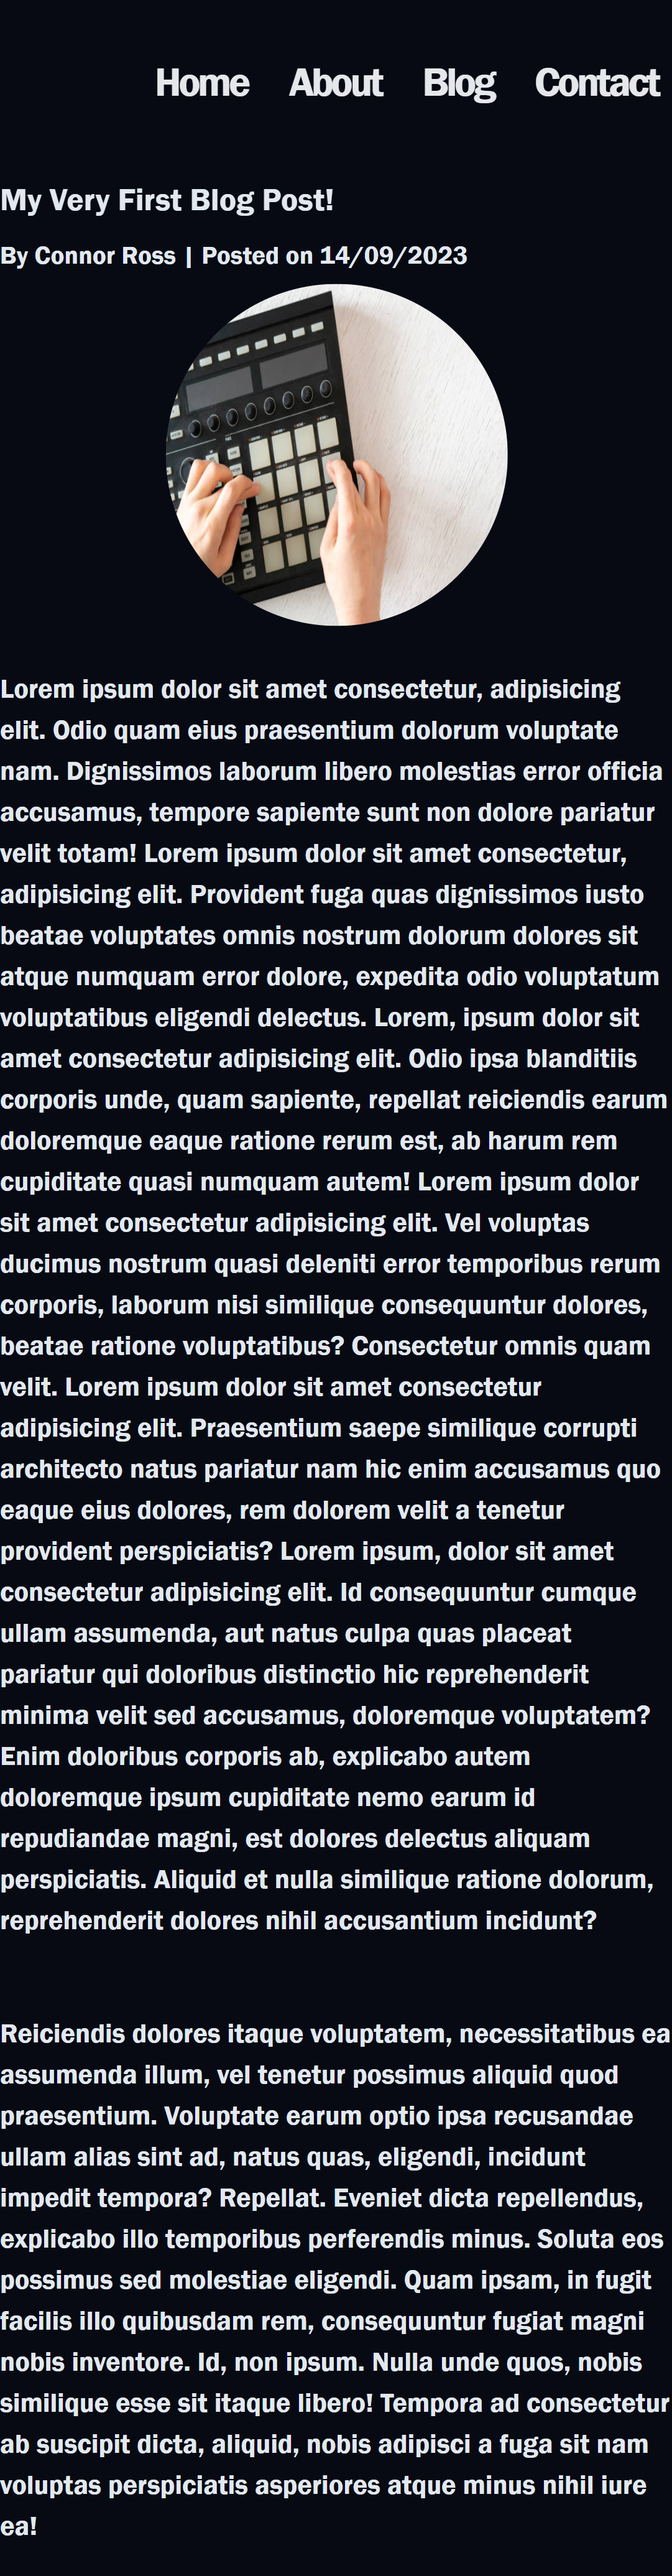
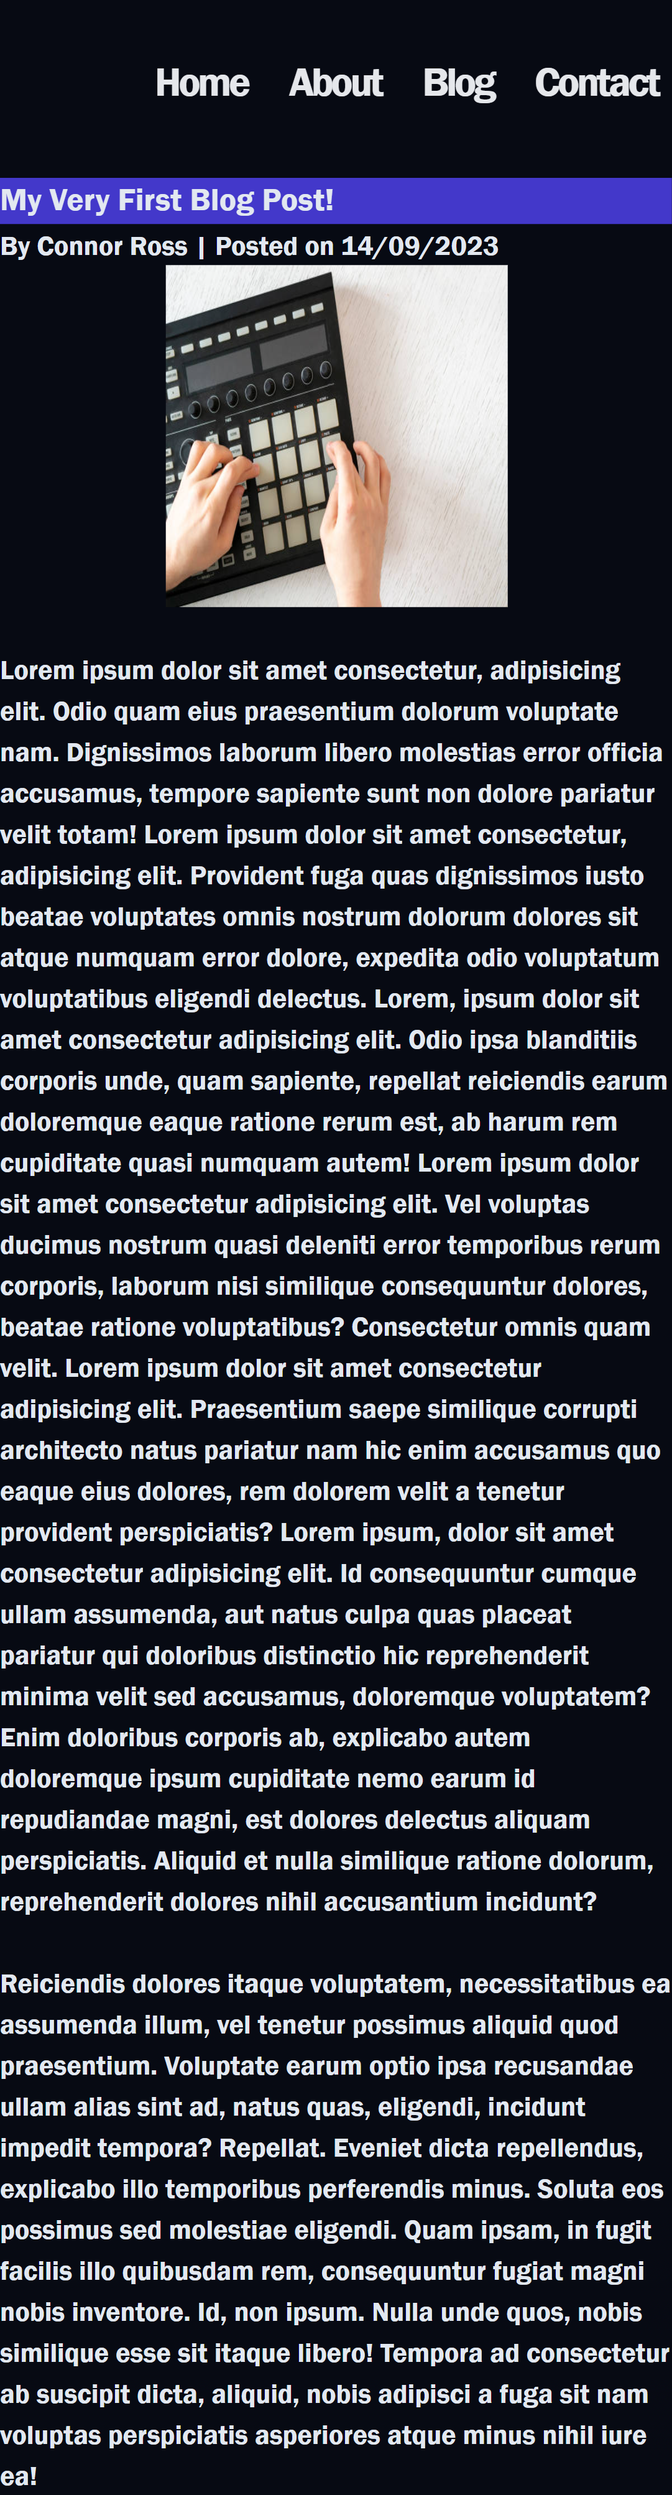
changes to blog layout for final change

diff --git a/src/blog.html b/src/blog.html
@@ -27,31 +27,47 @@
             </ul>
     </header>
     <br>
-    <article> <h3 class="blog"> My Very First Blog!</h3> <br>
-        <h4> By Connor Ross | Posted on 14/09/2023 </h4> <img class="blog_img" src="./images/Blog 1.jpg" alt=""> <br>
-        Lorem ipsum dolor sit amet consectetur... <a href="blog1.html">Click Here to Read More!</a>
-    </article>
-    <br>
-    <article> <h3 class="blog"> Whats Happening?</h3> <br>
-        <h4> By Connor Ross | Posted on 18/09/2023 </h4> <img class="blog_img" src="./images/Blog 2.jpg" alt="">
-        <br>
-        Lorem ipsum dolor sit amet consectetur... <a href="blog2.html">Click Here to Read More!</a>
-    </article>
-    <br>
-    <article><h3 class="blog"> Wow! I am Learning so Much!</h3><br>
-        <h4> By Connor Ross | Posted on 23/09/2023 </h4><img class="blog_img" src="./images/blog 3.jpg" alt="">
-        <br>
-        Lorem ipsum dolor sit amet consectetur... <a href="blog3.html">Click Here to Read More</a>
-    <br>
-    <article><h3 class="blog">And Another Thing...</h3><br>
-        <h4> By Connor Ross | Posted on 24/09/2023 </h4><img class="blog_img" src="./images/blog 4.jpg" alt="">
-        <br>
-        Lorem ipsum dolor sit amet consectetur... <a href="blog4.html">Click Here to Read More</a>
-    </article>
-    <br>
-    <article><h3 class="blog"> Blogs are pretty neat</h3><br>
-        <h4> By Connor Ross | Posted on 25/09/2023 </h4><img class="blog_img" src="./images/blog 5.jpg" alt="">
-        <br>
-        Lorem ipsum dolor sit amet consectetur...<a href="blog5.html">Click Here to Read More</a>
+    <div id="blog__content">
+        <article id="blog__article">
+            <h3>My Very First Blog</h3>
+            <h4>By Connor Ross | Posted on 14/09/2023</h4>
+            <p>
+                Lorem ipsum dolor sit amet consectetur adipisicing elit. Fuga autem officia, nulla provident magnam voluptatibus aliquam doloremque reprehenderit quis ea quod minima obcaecati aspernatur explicabo vel aperiam voluptatem mollitia a.
+            </p>
+            <a href="../src/blog1.html">Click Here to Read More!</a>
+        </article>
+        <article id="blog__article"> 
+            <h3>Wow Blog Number 2!</h3>
+            <h4>By Connor Ross | Posted on 18/09/2023 </h4> 
+            <p>
+                Lorem ipsum dolor sit amet consectetur adipisicing elit. Fuga autem officia, nulla provident magnam voluptatibus aliquam doloremque reprehenderit quis ea quod minima obcaecati aspernatur explicabo vel aperiam voluptatem mollitia a.
+            </p>
+             <a href="blog2.html">Click Here to Read More!</a>
+        </article>
+        <article id="blog__article">
+            <h3>Wow I am Learning So Much</h3>
+            <h4>By Connor Ross | Posted on 23/09/2023</h4>
+            <p>
+                Lorem ipsum dolor sit amet consectetur adipisicing elit. Fuga autem officia, nulla provident magnam voluptatibus aliquam doloremque reprehenderit quis ea quod minima obcaecati aspernatur explicabo vel aperiam voluptatem mollitia a.
+            </p>
+            <a href="blog3.html">Click Here to Read More!</a>
+        </article>
+        <article id="blog__article">
+            <h3>And Another Thing...</h3>
+            <h4>By Connor Ross | Posted on 24/09/2023</h4>
+            <p>
+                Lorem ipsum dolor sit amet consectetur adipisicing elit. Fuga autem officia, nulla provident magnam voluptatibus aliquam doloremque reprehenderit quis ea quod minima obcaecati aspernatur explicabo vel aperiam voluptatem mollitia a.
+            </p>
+            <a href="blog4.html">Click Here to Read More!</a>
+        </article>
+        <article id="blog__article">
+            <h3>Blogs are Pretty Neat!</h3>
+            <h4>By Connor Ross | Posted on 25/09/2023</h4>
+            <p>            
+                Lorem ipsum dolor sit amet consectetur adipisicing elit. Fuga autem officia, nulla provident magnam voluptatibus aliquam doloremque reprehenderit quis ea quod minima obcaecati aspernatur explicabo vel aperiam voluptatem mollitia a.
+            </p>
+            <a href="blog5.html">Click Here to Read More!</a>
+        </article>
+    </div>
 </body>
 </html>

diff --git a/src/blog.css b/src/blog.css
@@ -1,59 +1,49 @@
-h3, h4 {
-    margin: 0 0 0.35em;
+h2 {
+    text-align: center;
+    width: 100%;
 }
 
-.blog {
-    font-size: 40px;
-    background-color: var(--clr-bold);
-}
-article {
-
+#blog__article {
     display: flex;
+    text-align: center;
+    justify-content: space-around;
     flex-direction: column;
+    border: 1px solid var(--clr-secondary);
+}
+
+
+#blog__content{
+    display: grid;
+    grid-template-columns: repeat(auto-fit, minmax(10rem, 20rem));
+    flex-direction: row;
     flex-wrap: wrap;
-    column-gap: 1rem;
-    row-gap: 1rem;
+    column-gap: 5rem;
+    row-gap: 5rem;
     justify-content: center;
     padding: 1rem;
-    text-align: center;
-}
-h4 {
-    font-size: 15px;
-}
-
-p {
-    margin: 0 0 1.15em;
-}
-
-.img--align {
-    float: left; /* replaces the style previously inherited by the browser */
-    margin: 0 16px 16px 0;
-}
-
-a {
-    color: var(--clr-primary);
-}
-
-.blog__img {
-    border-radius: 50%;
+  }
+  
+  .blog__img {
     min-height: 200px;
     max-height: 200px;
     min-width: 200px;
     max-width: 200px;
-    display: block;
     margin-left: auto;
     margin-right: auto;
     justify-content: center;
 
-}
 
-.blog_img {
-    border-radius: 50%;
-    min-height: 200px;
-    max-height: 200px;
-    min-width: 200px;
-    max-width: 200px;
-    display: block;
-    margin-left: auto;
-    margin-right: auto;
-}
+  }
+
+  h3 {
+    background-color: var(--clr-bold);
+  }
+
+  a {   
+    color: var(--clr-primary);
+  }
+
+  a:hover {
+    color: var(--clr-button);
+    transition: 0.3s;
+  }

diff --git a/src/display.css b/src/display.css
@@ -11,7 +11,7 @@
 }
 
 /* Mobile */
-@media only screen and (max-width:400px){
+@media only screen and (max-width:600px){
     .header__titles{
         font-size: 1.5rem;
         letter-spacing: -0.1rem;
@@ -23,9 +23,10 @@
 
 
 /* Tablet */
-@media only screen and (min-width: 401px) and (max-width: 960px){
+@media only screen and (min-width: 601px) and (max-width: 960px){
     .header__titles{
         font-size: 2rem;
         letter-spacing: -0.1rem;
     }
 }
+
